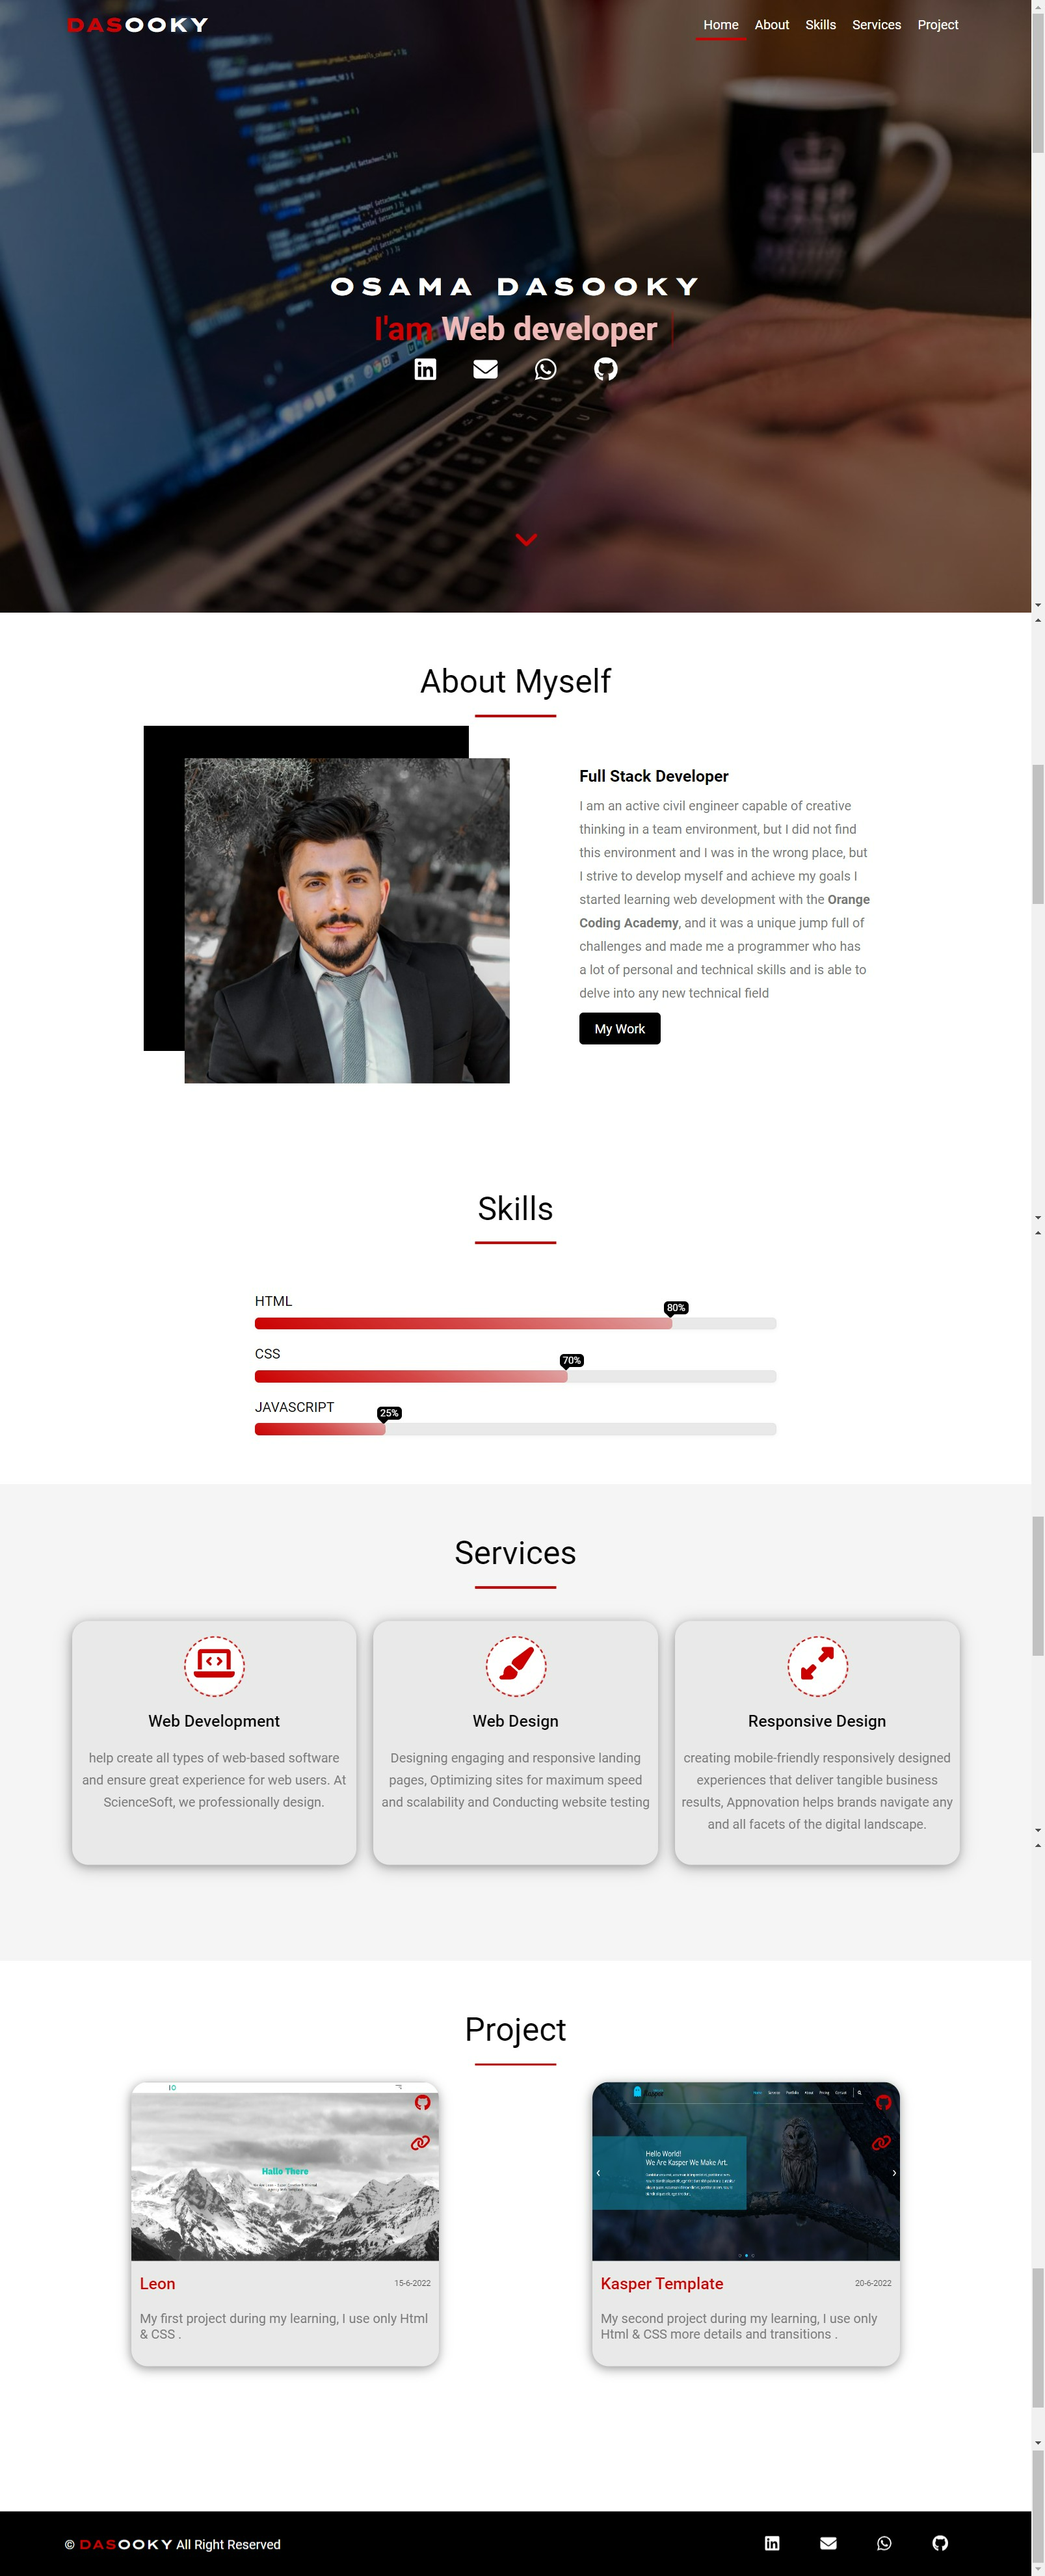
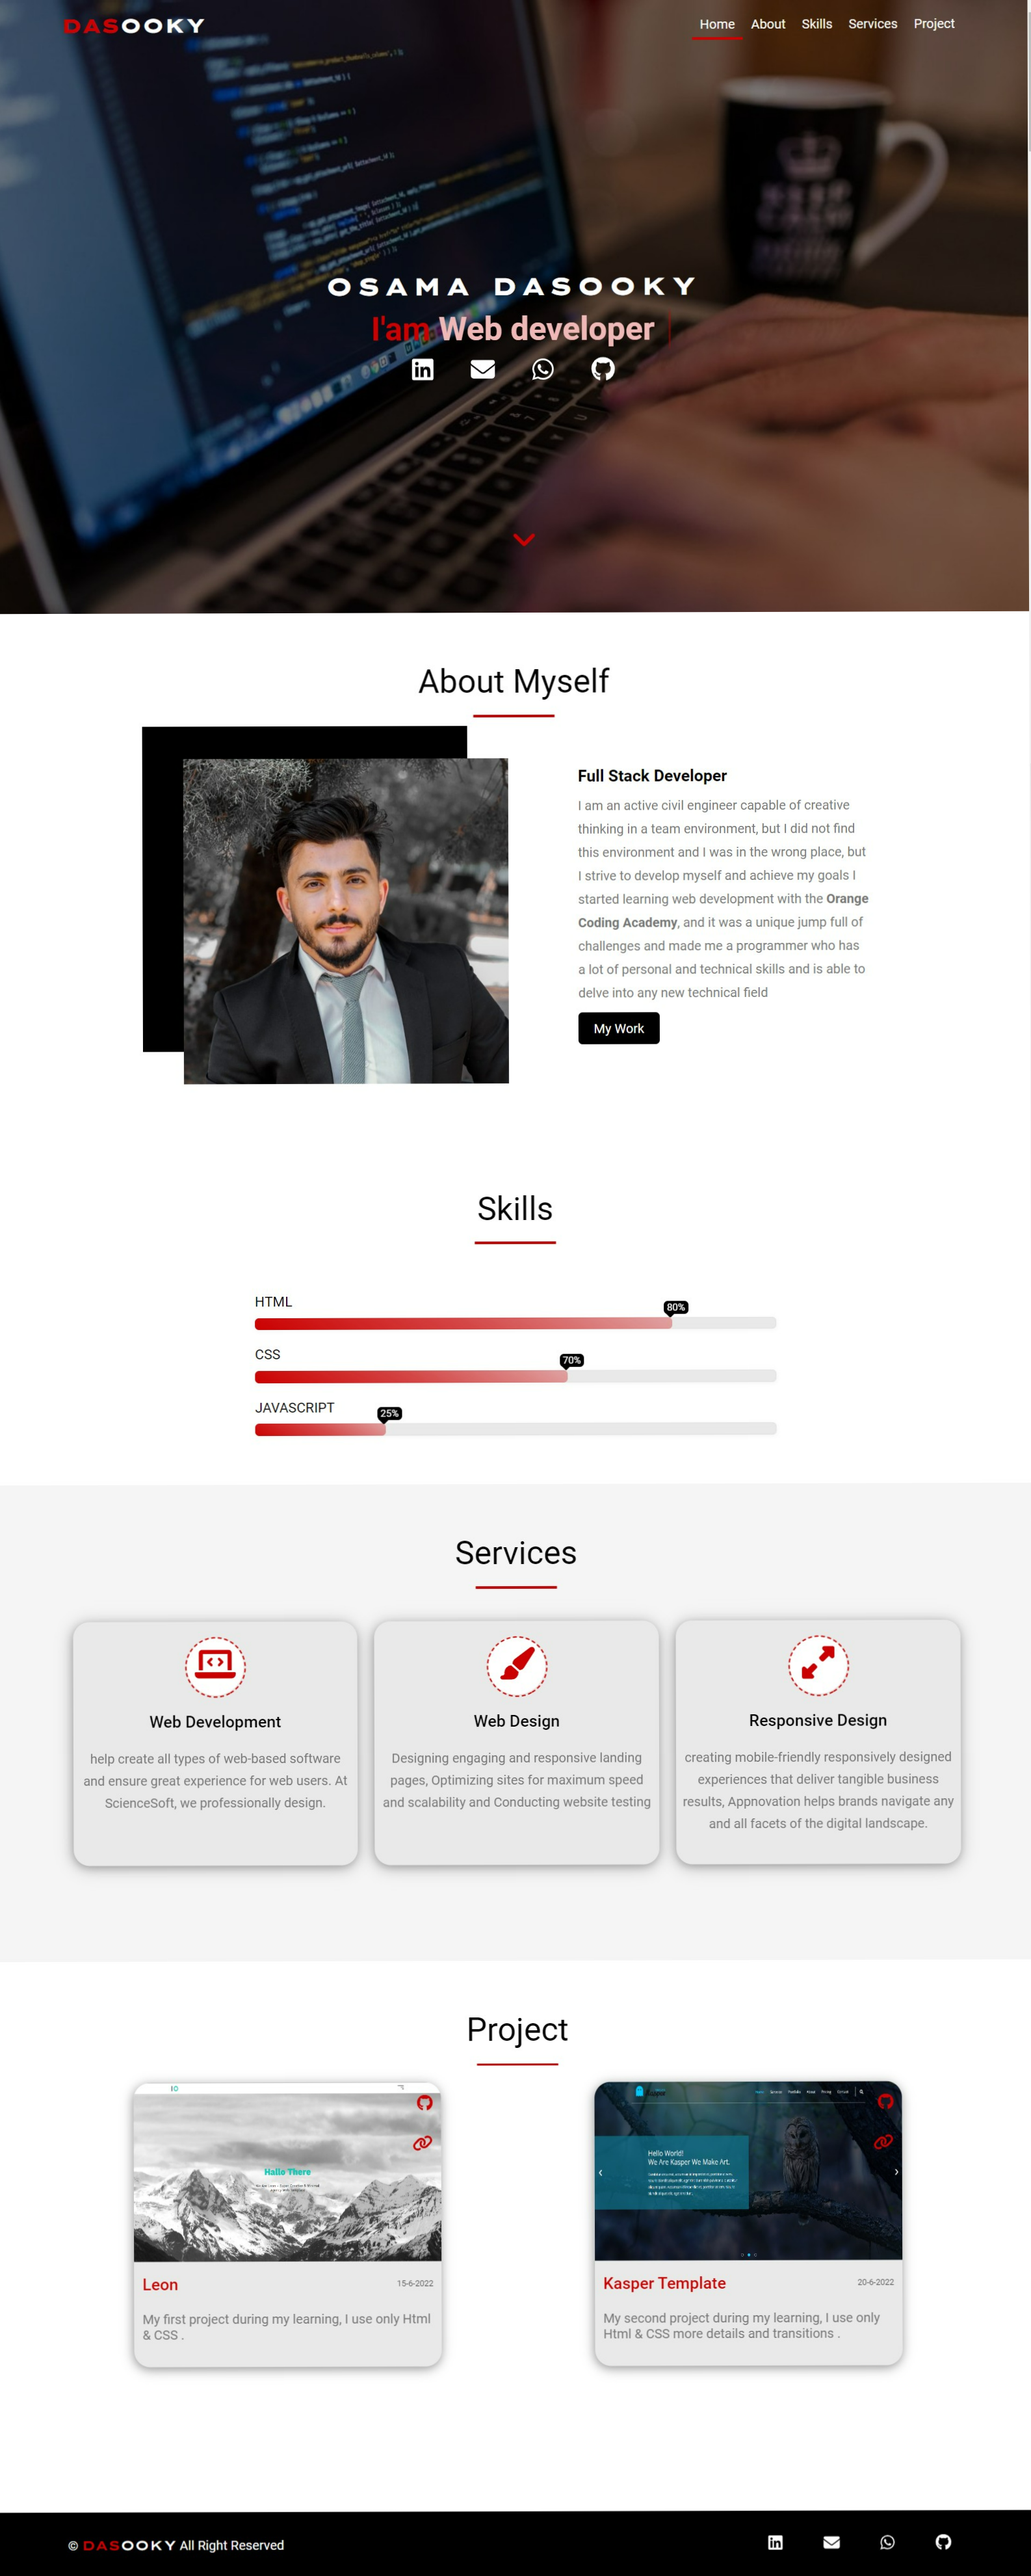
final add

diff --git a/css/style.css b/css/style.css
@@ -319,6 +319,9 @@ header .nav ul .active::before {
     .About .image img{
         width: 80%;
     }
+    .About .row {
+        justify-content: right !important;
+    }
 }
 .About .card {
     display: flex;
